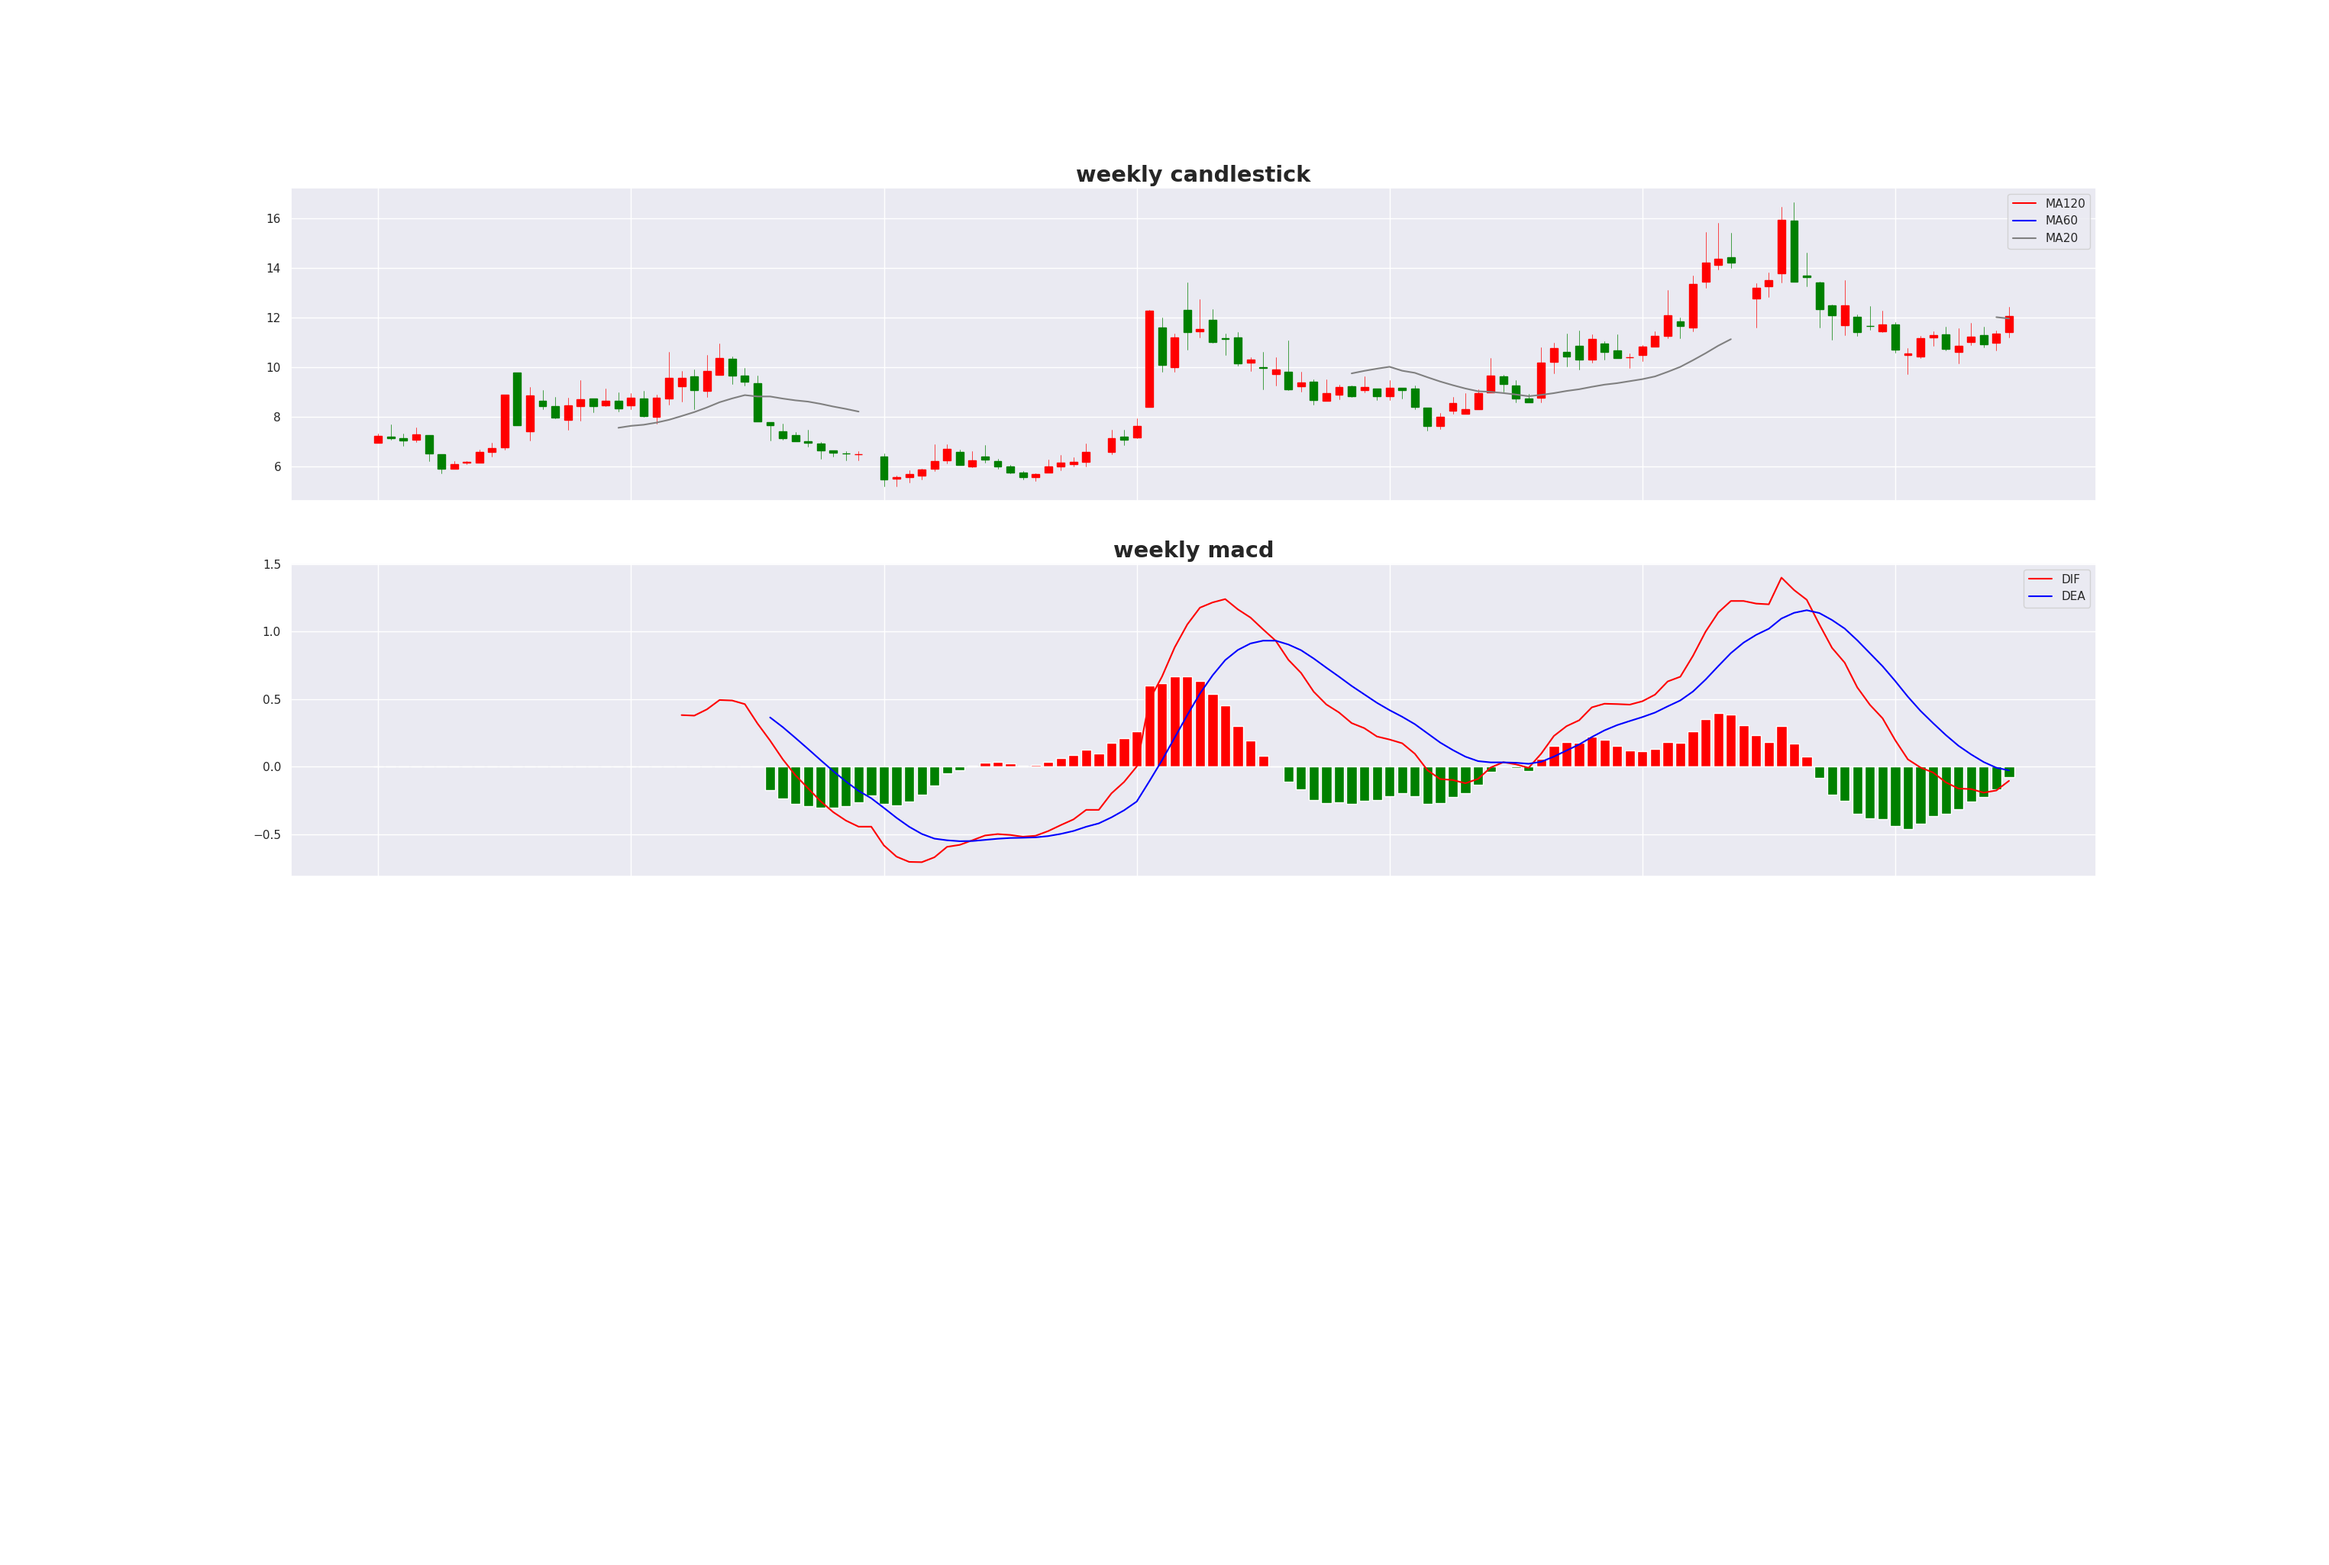
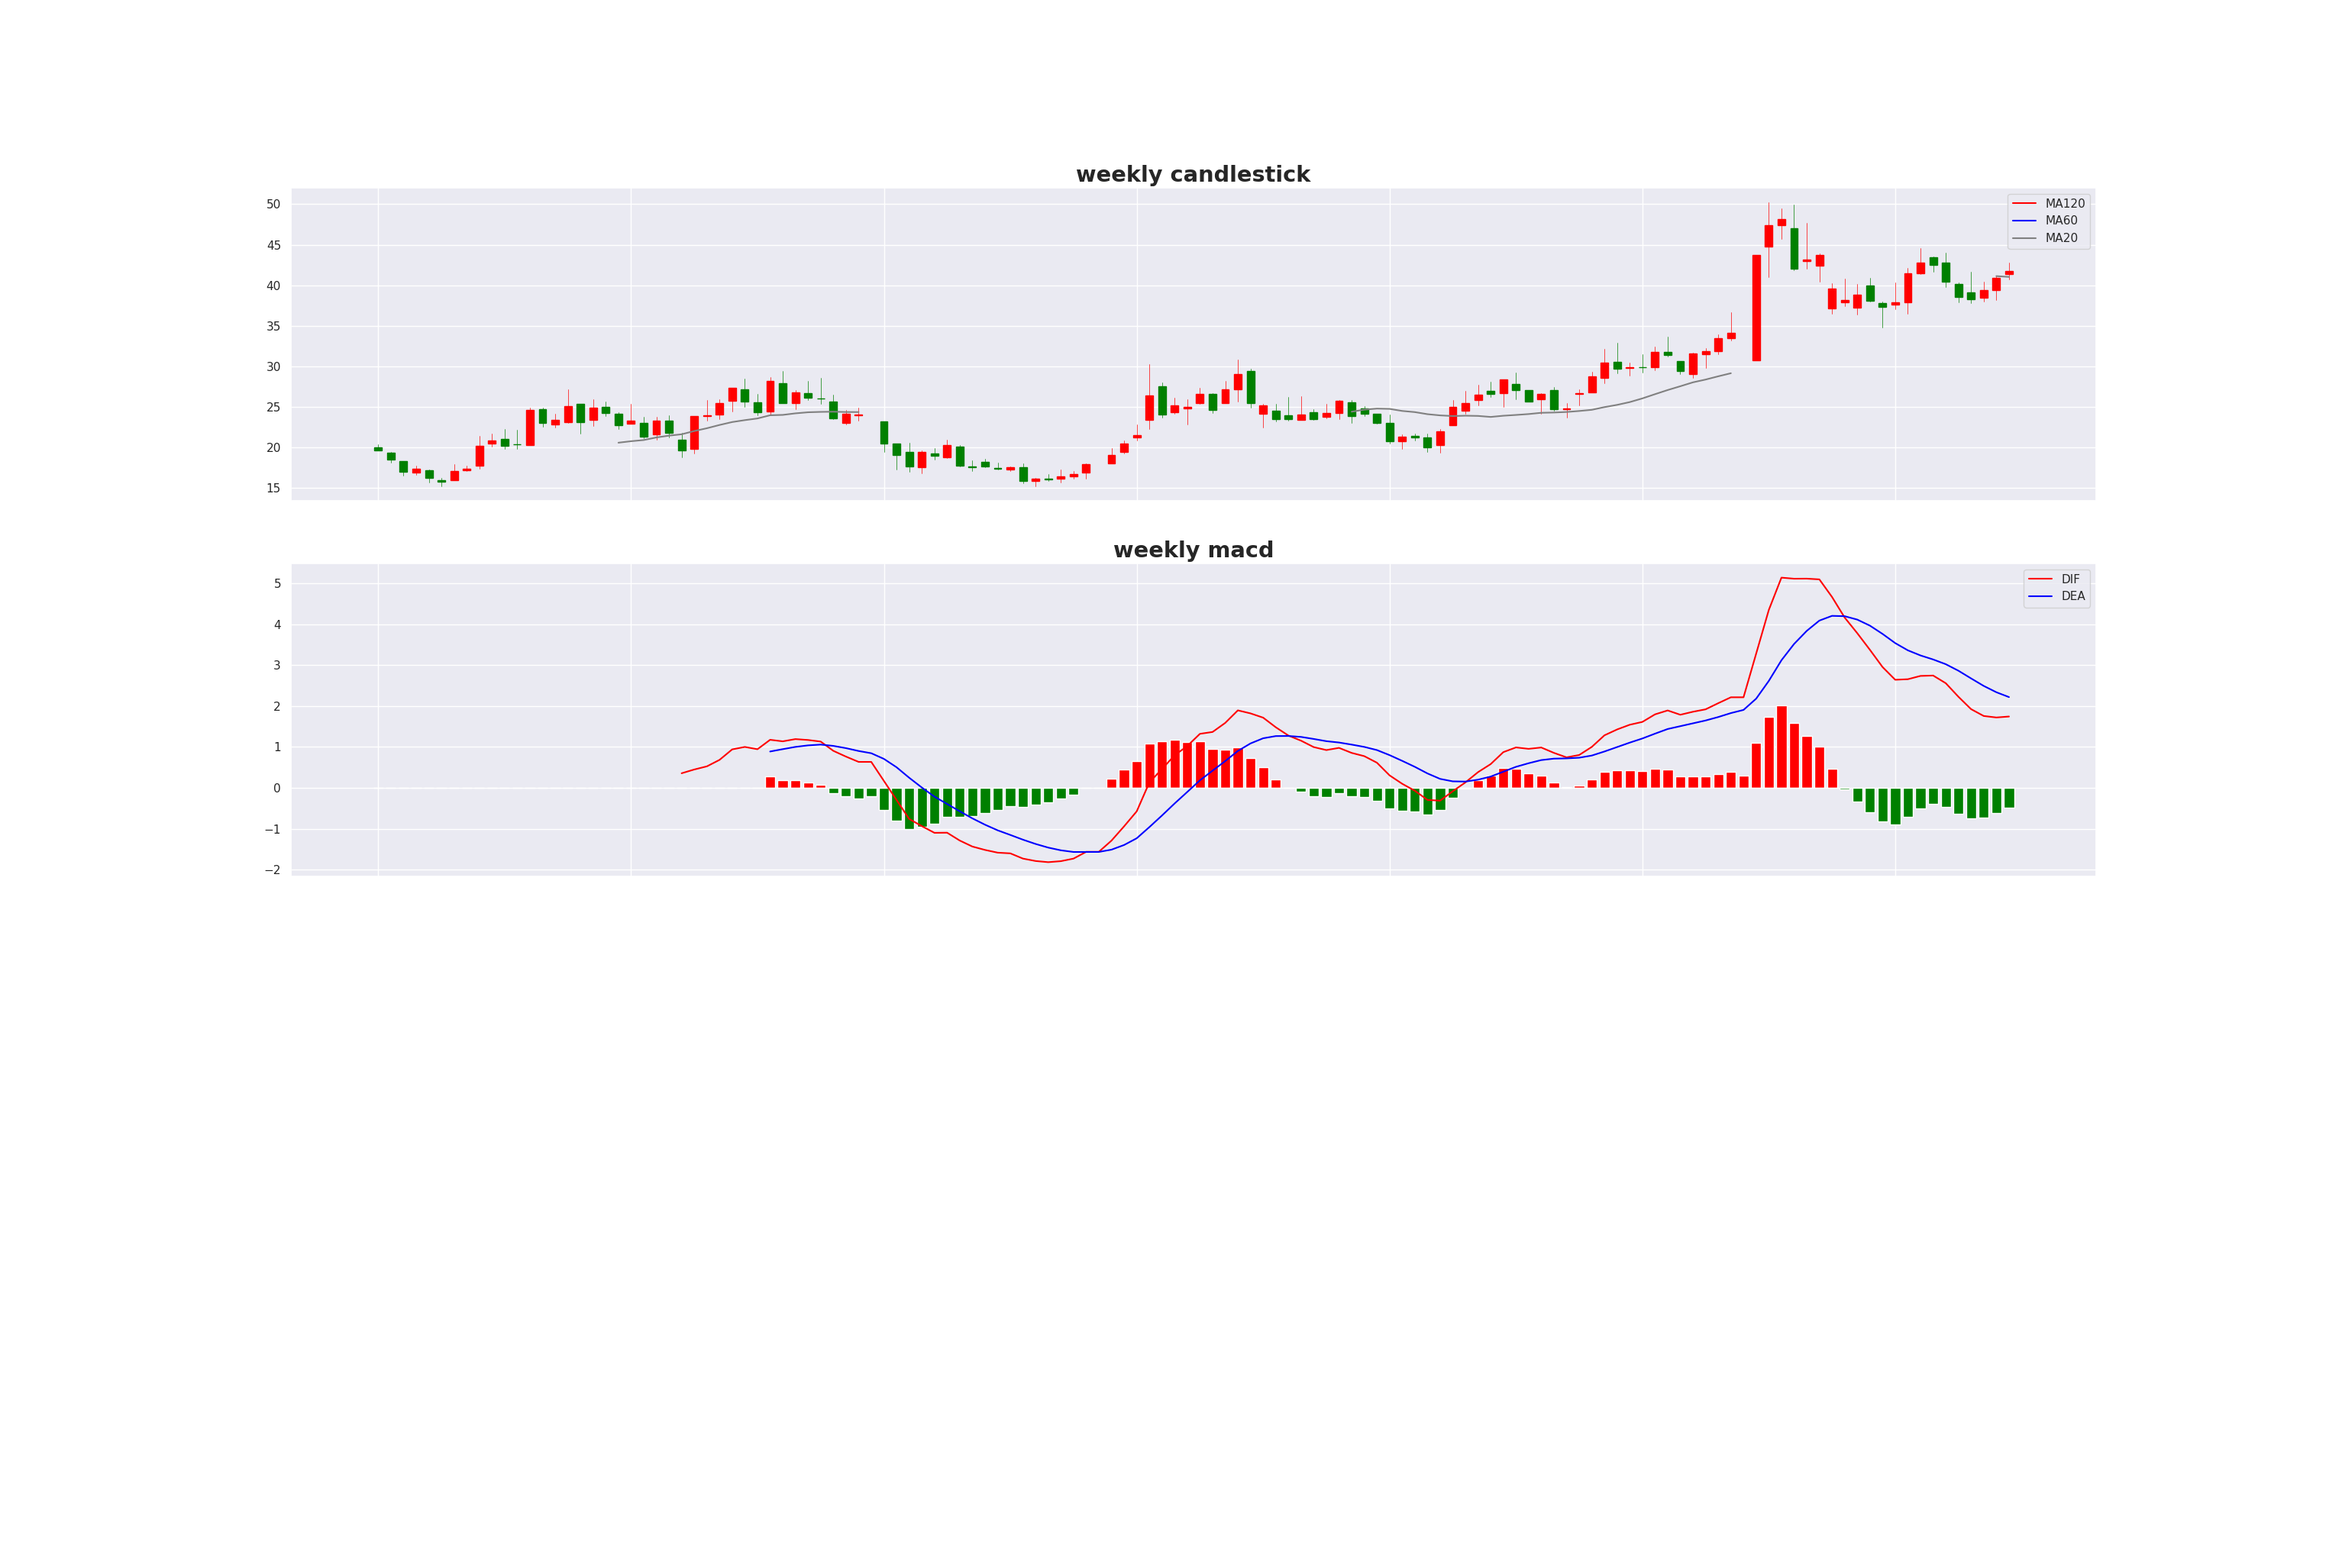
sync

diff --git a/core/zoom.py b/core/zoom.py
@@ -31,9 +31,11 @@ def wds(df,duration='W'):
 
 
 def divergence(wk, short=10, mid=20, long=30):
-    wk['lo'] = pd.Series.rolling(wk.close, long).mean()
-    wk['mi'] = pd.Series.rolling(wk.close, mid).mean()
-    wk['sh'] = pd.Series.rolling(wk.close, short).mean()
+    #wk['lo'] = wk.close.rolling(window=long).mean()
+    wk['lo'] = QA.MA(wk.close,long)
+    wk['mi'] = wk.close.rolling(window=mid).mean()
+    wk['sh'] = wk.close.rolling(window=short).mean()
+
 
     wk['short'] = pd.Series.ewm(wk.close, span=short, min_periods=short - 1, adjust=True).mean()
     wk['mid'] = pd.Series.ewm(wk.close, span=mid, min_periods=mid - 1, adjust=True).mean()

diff --git a/quant/weekTrend.py b/quant/weekTrend.py
@@ -161,9 +161,9 @@ def weekPlot(sample, short=20, mid=60, long=120):
     fig.autofmt_xdate()
     '''
     plt.legend()
-    plt.savefig(r'week1.png')
-    plt.close()
-    #plt.show()
+    #plt.savefig(r'week1.png')
+    #plt.close()
+    plt.show()
 
 
 
@@ -198,4 +198,4 @@ def weekDFANA(code,start='2018-01-01',end='current'):
 
 
 if __name__ == "__main__":
-    weekDFANA('000810')
+    weekDFANA('000977')

diff --git a/quant/PriceBias.py b/quant/PriceBias.py
@@ -180,6 +180,6 @@ def forceANA(code,zo=100,ty = 'SMLB',cg = 'stock', st = 20, mi = 60, ln = 120,pt
 
 
 if __name__ == "__main__":
-    forceANA('000977',zo=600,ty = 'SMB', cg = 'stock', st = 20, mi = 60, ln = 120, pt='E')
+    forceANA('515880',zo=300,ty = 'SMB', cg = 'index', st = 20, mi = 30, ln = 60, pt='M')
 
 
